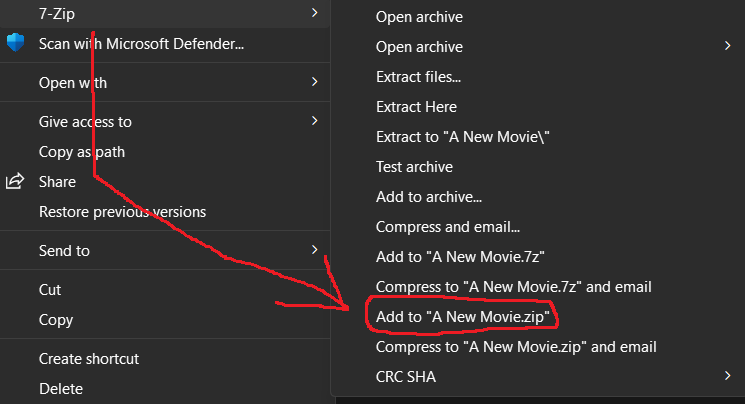
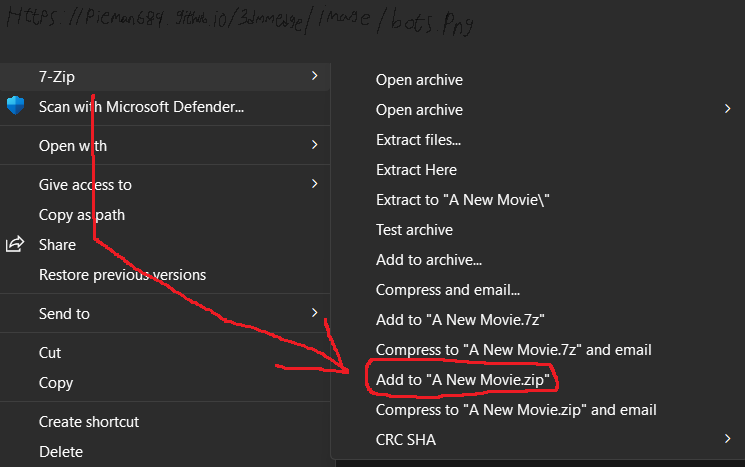
added... stuff

diff --git a/submit.html b/submit.html
@@ -44,7 +44,7 @@
                             Remove the unused sound files by clicking this when quitting,<br><br><br> 
                             <a href="image/delete_yo_sound.png"><img src="image/delete_yo_sound.png"></a><br><br><br>
                             Then zip the file using <a href="https://www.7-zip.org/">7-Zip</a> or something similar (i.e. WinRAR, PeaZip, any archiving program)<br><br><br>
-                            <a href="image/zip_yo_movies.png"><img src="image/zip_yo_movies.png" width="500"></a></p>
+                            <a href="image/zip_yo_movies.png"><img src="image/zlp_yo_movies.png"width="500"></a>
                             <p>and then simply send an <a href="mailto:3dmmedgesubmit@gmail.com">email to us!</a></p>
     <!--Main-->         </div>
 
